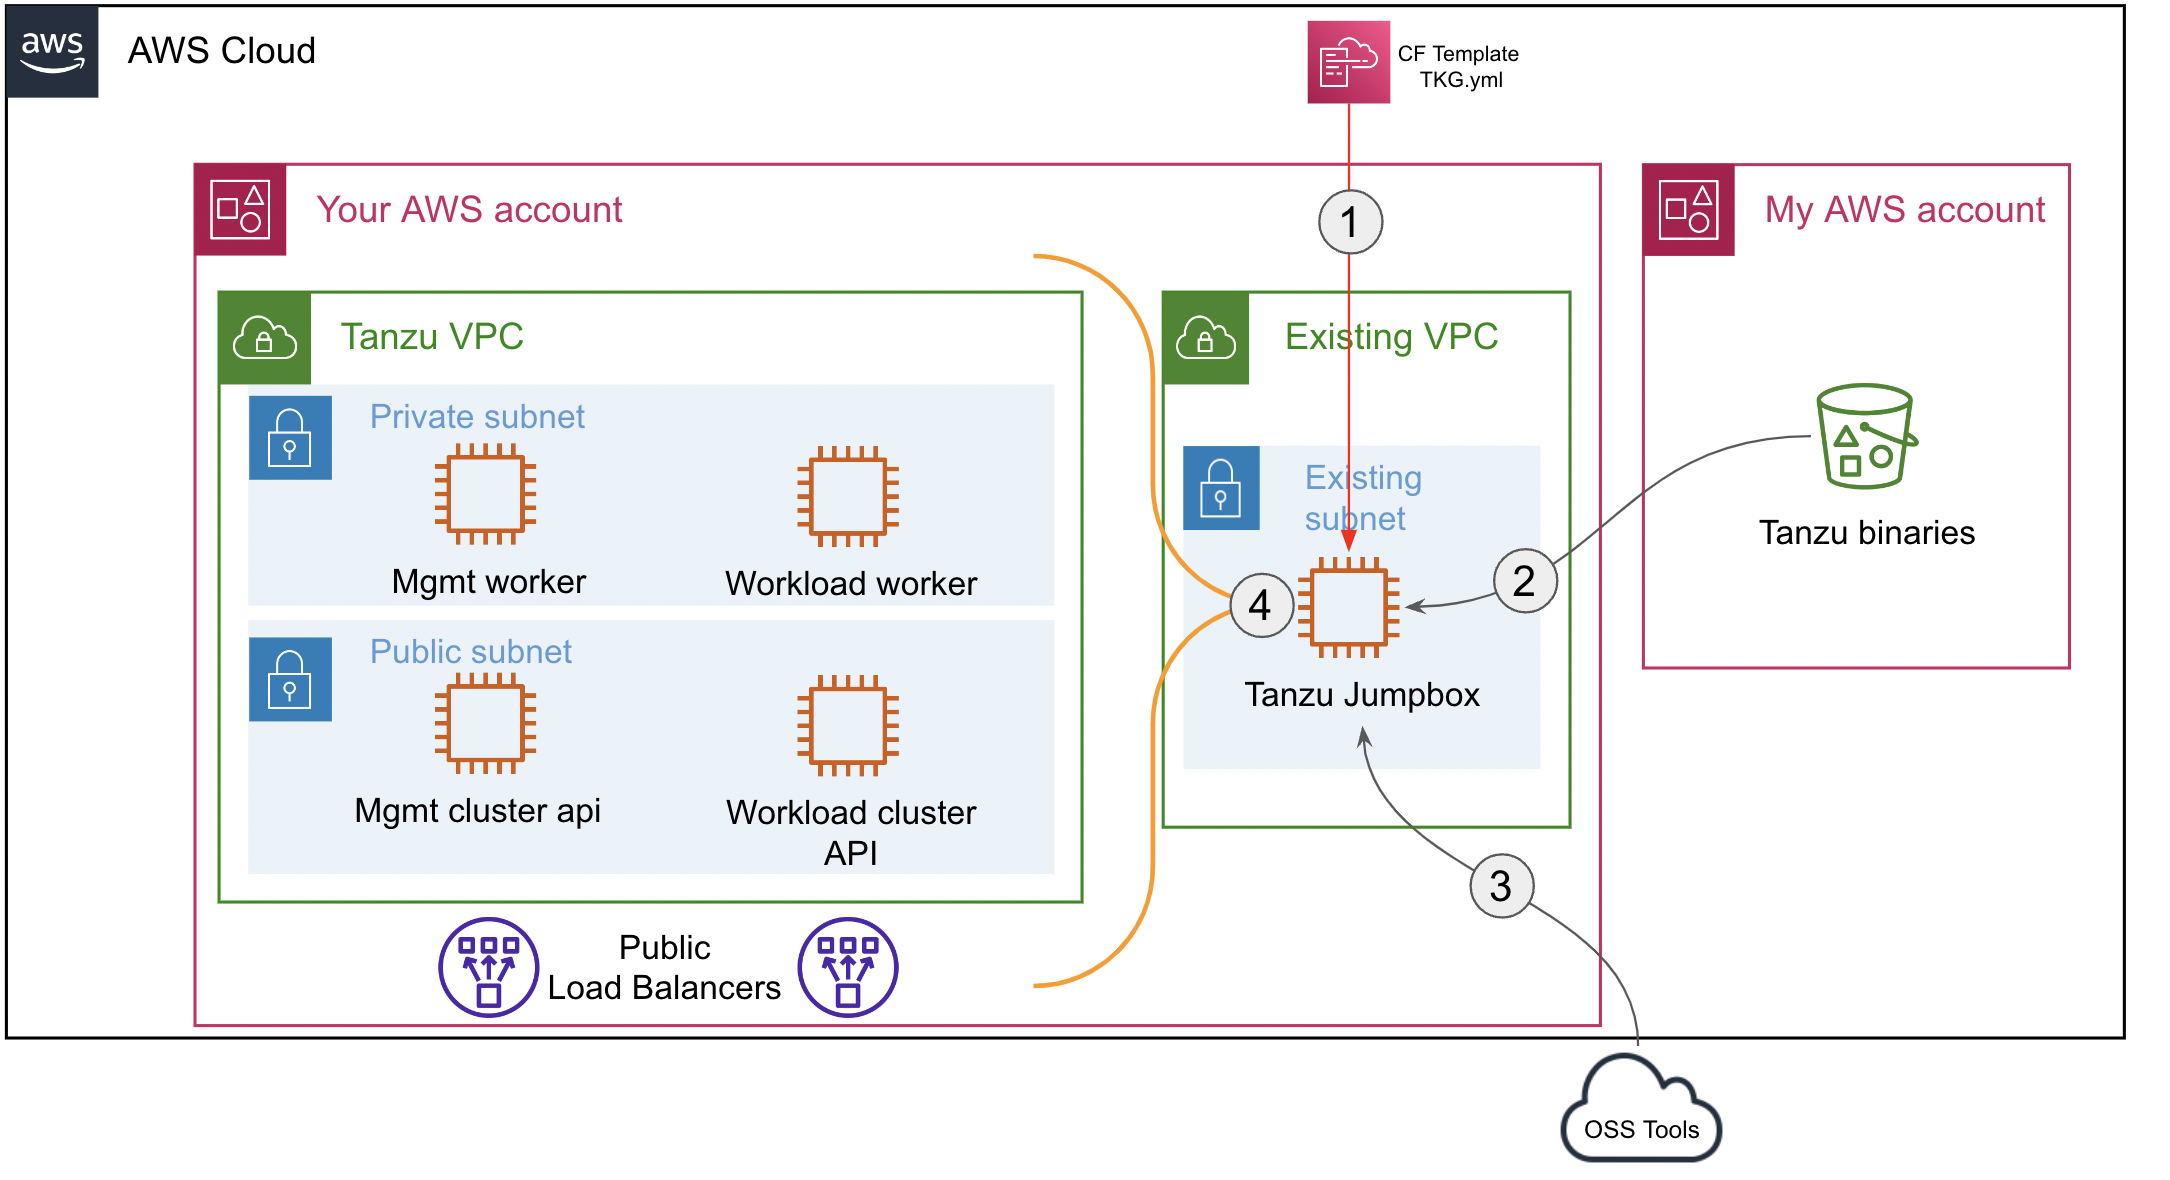
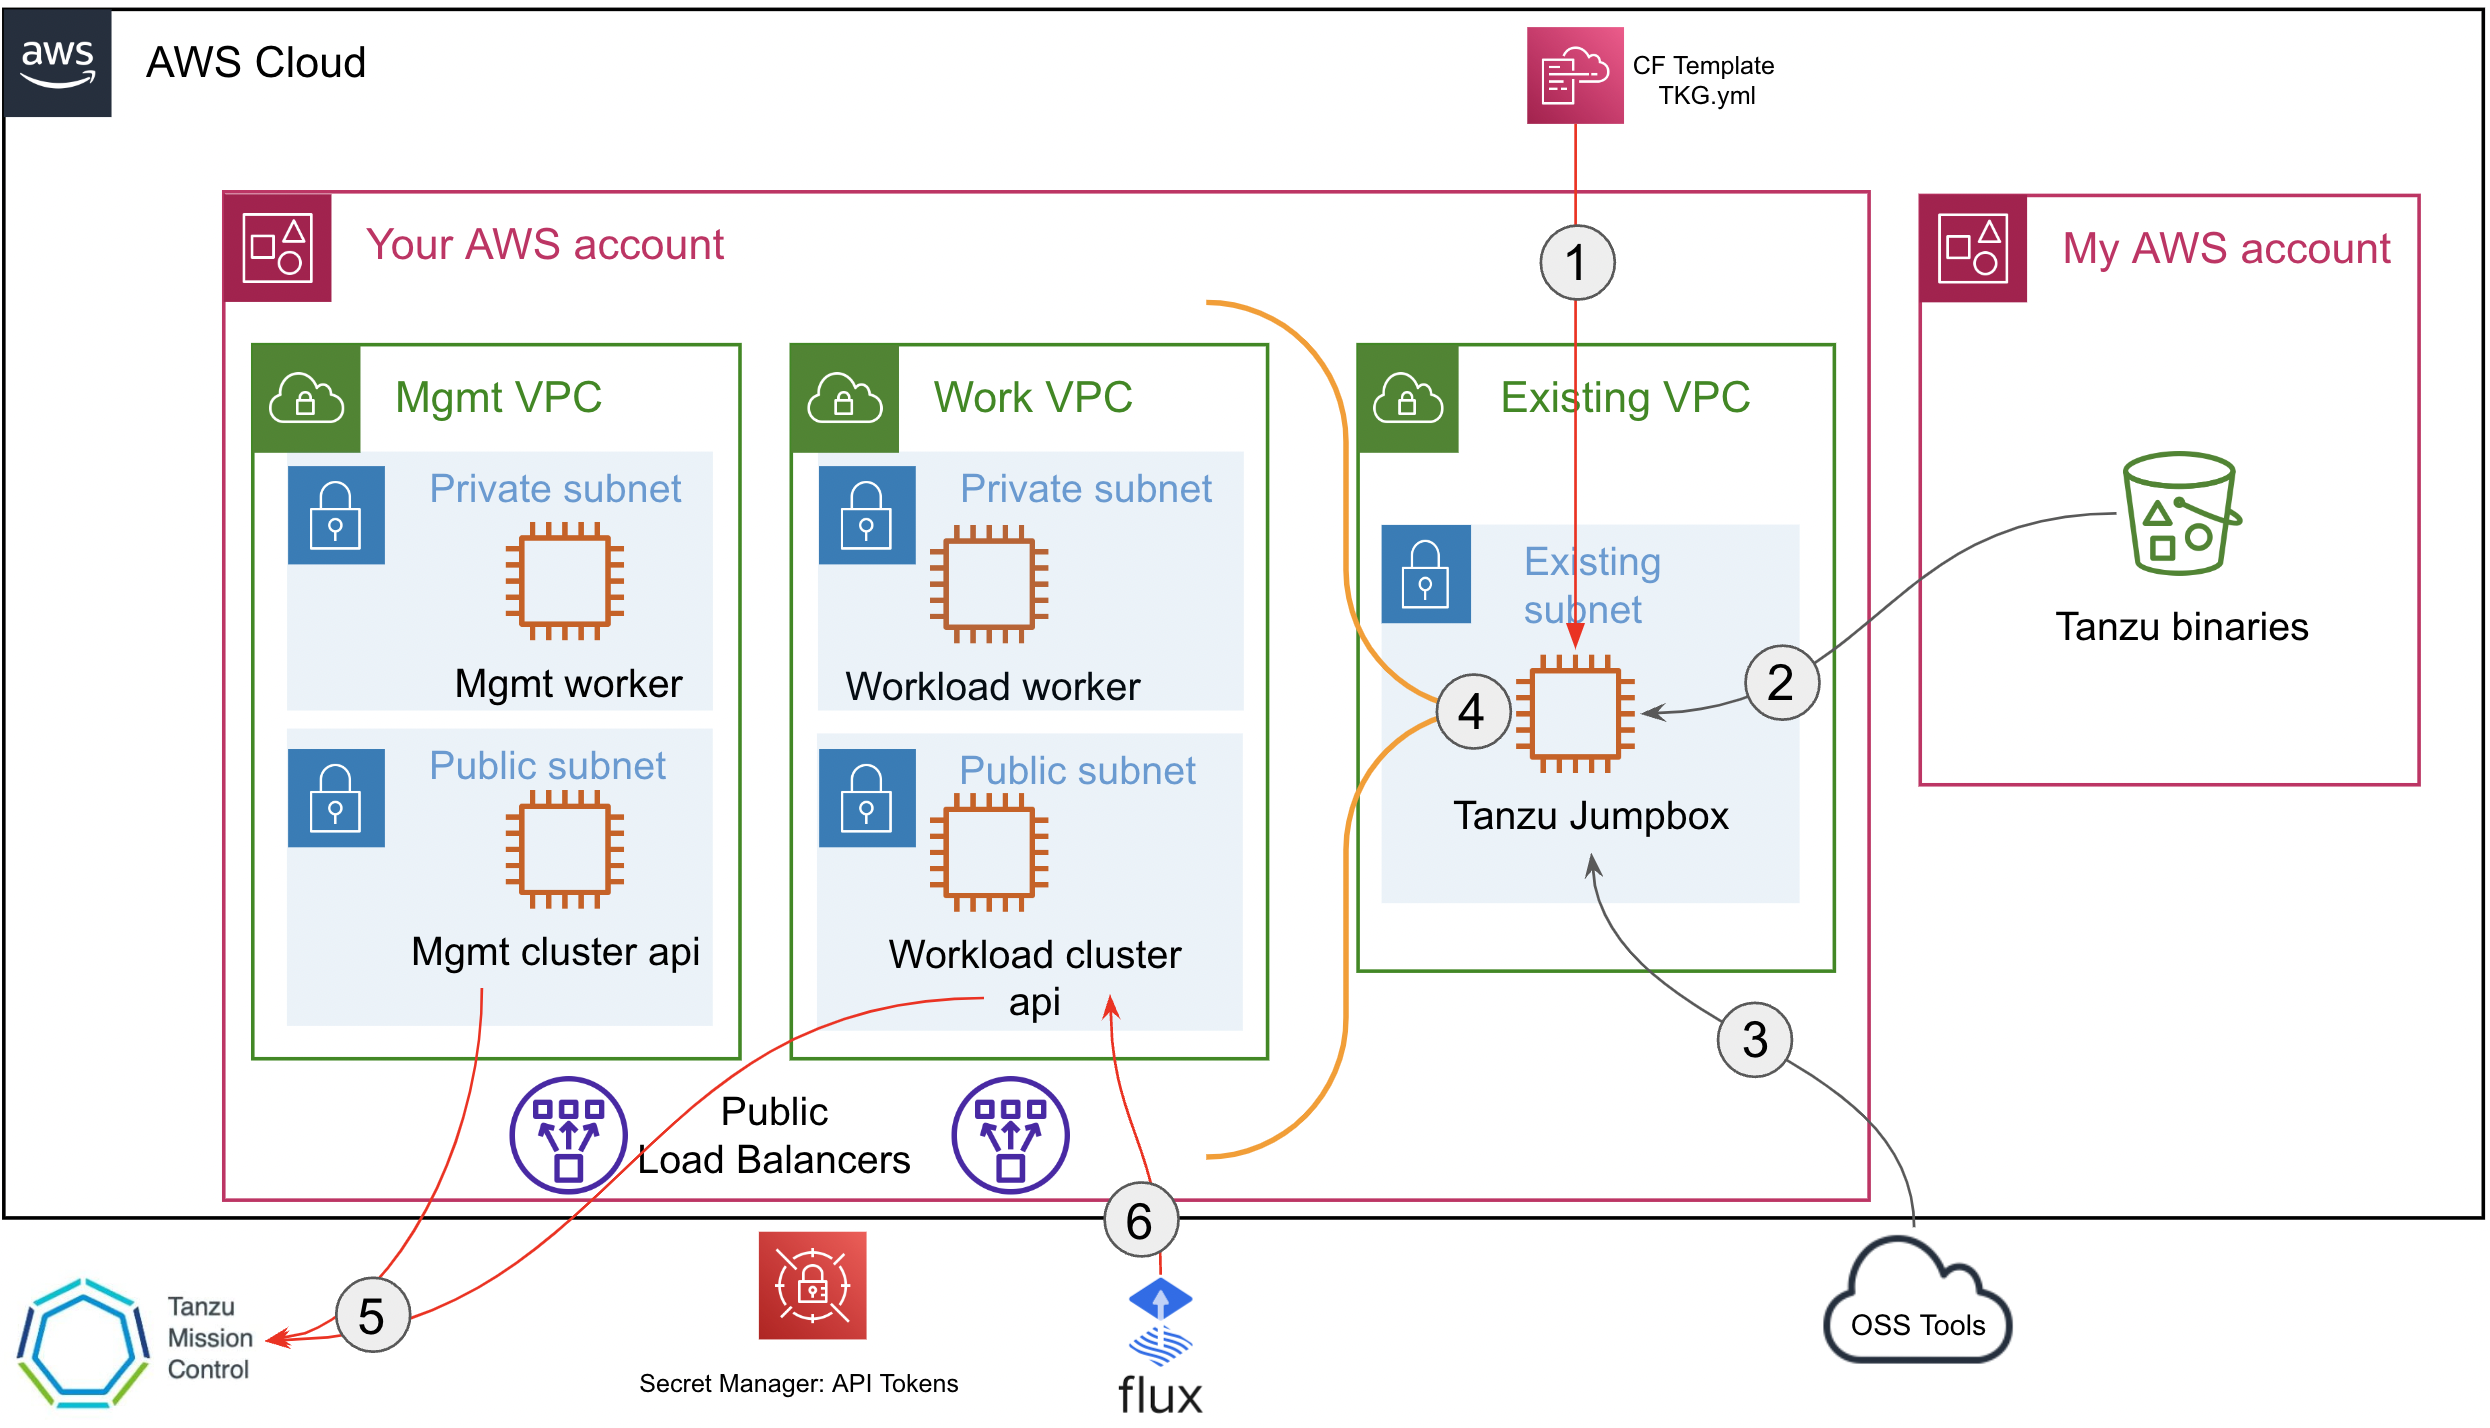
doc

Changed region(s): [[0.0, 0.0, 1.0, 1.0]]

diff --git a/README.md b/README.md
@@ -1,5 +1,25 @@
 ## This projects deploy Tanzu cluster in your AWS Account
 ![image info](./Docs/Arch.png)
+## Prerequisites
+Prior to testing the deployment please have a look to the configuration elements you need to prepare
+| Name          | Description | Type           | Default  |
+| ------------- |:-------------:| -----:|
+| Ec2InstanceAmi| The AMI to use when creating the EC2 instance. Here we use the parameter store to get the latest version of ubuntu jammy | `AWS::SSM::Parameter::Value<AWS::EC2::Image::Id>`          | `/aws/service/canonical/ubuntu/server/jammy/stable/current/amd64/hvm/ebs-gp2/ami-id` |
+| SubnetId | Subnet used to launch bootstrap instance. Form will be populated with subnets available in the AWS region | `AWS::EC2::Subnet::Id` | N/A
+| VPCId | VPC used to launch bootstrap instance. Form will be populated with VPC available in the AWS region | `AWS::EC2::VPC::Id` | N/A
+| S3DeliveryBucketName | Name of the existing S3 bucket used to deliver Tanzu binaries. Leave default, this bucket has been made public to allow you to download templates and artifacts | `string` | spu-tanzu-binaries|
+| SSHKeyName | Name of the ssh key used to access ec2 hosts. Set this up ahead of time . Form will be populated with the Keypairs names available in the AWS region| `AWS::EC2::KeyPair::KeyName` | N/A
+|SSHCidrBlock| Source CIDR allowed to SSH the bootstrap server. To allow only one ip, dont forget to use /32 netmask | `string` | 0.0.0.0/0
+|CreateIAMPrereqs| Whether I should create IAM resources. For a first deployment leave default. Be careful as these IAM roles have already been deployed if you used TMC on this account in the past. IAM service is global so overlaping with previous deployments, even in other regions, can occur | `bool`| true
+| TKGMgmtName | the name of the management cluster to deploy | `string` | spu-tkg-mgmt
+| CreateWorkloadCLuster | Whether I should create a first workload cluster |`bool`| false
+| TKGWorkName | the name of the workload cluster to deploy | `string` | spu-tkg-work-01
+| TMCEnrollCLusters | Whether I should enroll created clusters to TMC |`bool`| false
+| TmcApiToken | the name of the secret inside secret manager containing your TMC API TOKEN stored in secretstring format | `string` | TMC_API_TOKEN
+| TmcClusterGroup | the name of the target cluster group in TMC (must exist) | `string` | spu-demo
+| GitopsEnrollWorkloadCLuster | Whether I should enroll the workload cluster to a fluxcd fleet management repo |`bool`| false
+| GitopsSecret | the name of the secret inside secret manager containing your git username,repo and token stored in JSON formatt| `string` | fluxcd_token
+
 ## Deployment steps
 
 First authenticate to aws console.   
@@ -12,4 +32,6 @@ The project will automatically:
 3. Download Open source tools for configuration
 4. Deploy a new VPC with a Tanzu management Cluster and a Tanzu workload cluster inside it.   
 [<img src="https://docs.cloudbolt.io/resources/Storage/cloudbolt-csmp-latest/screenshots/launch-stack.png" width="200">](https://eu-west-1.console.aws.amazon.com/cloudformation/home?region=eu-west-1#/stacks/quickcreate?templateURL=https://spu-tanzu-binaries.s3.eu-west-1.amazonaws.com/TKG1.5.4/TKG.yml)
+5. Enroll deployed clusters to Tanzu Mission Control
+6. Grab configuration of additional services with fluxCD
 
